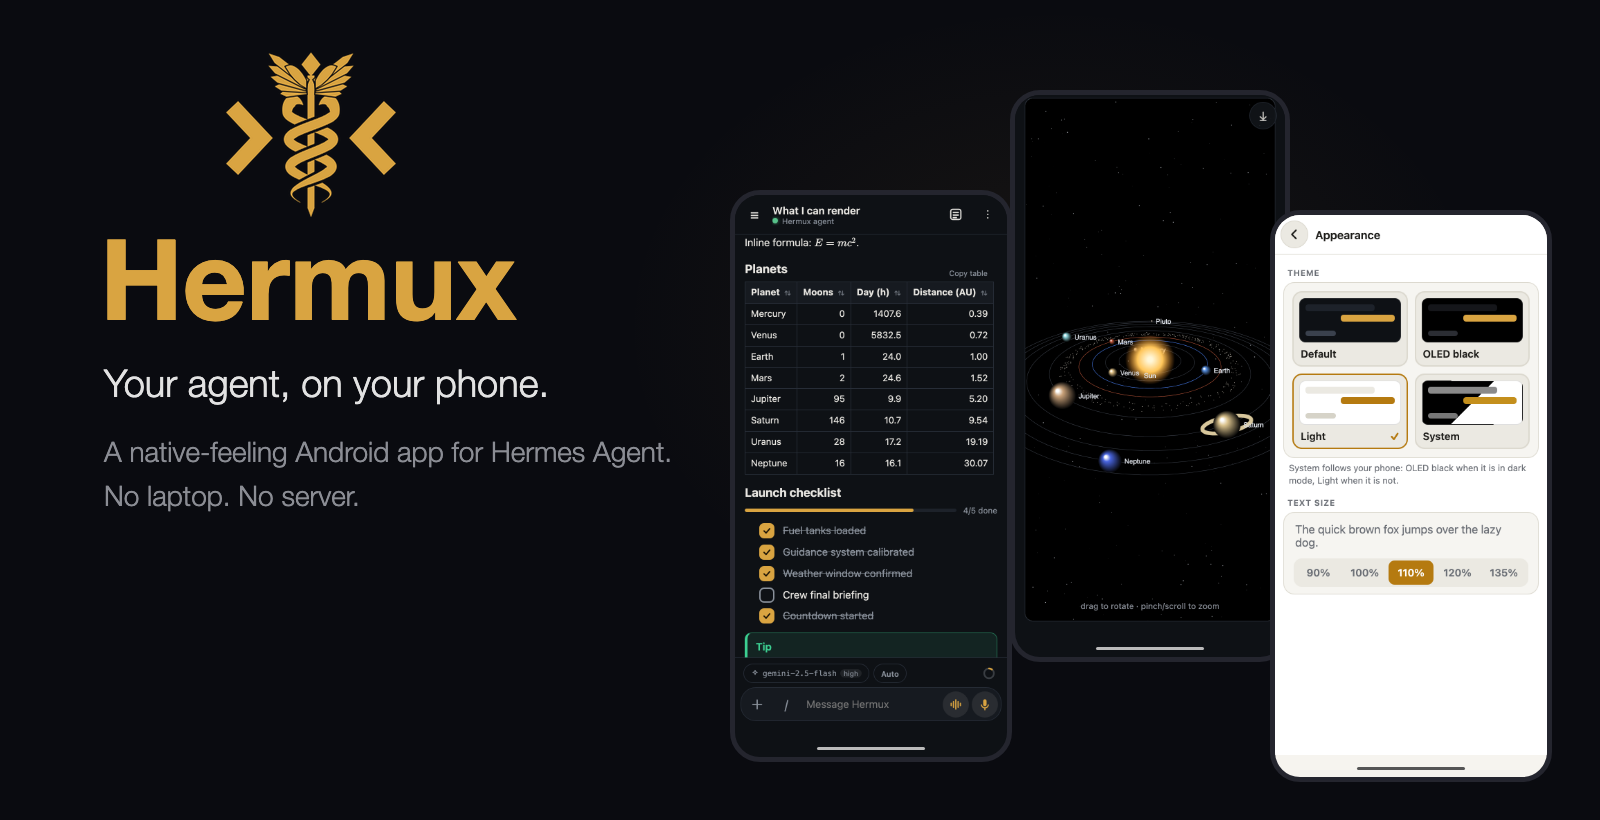
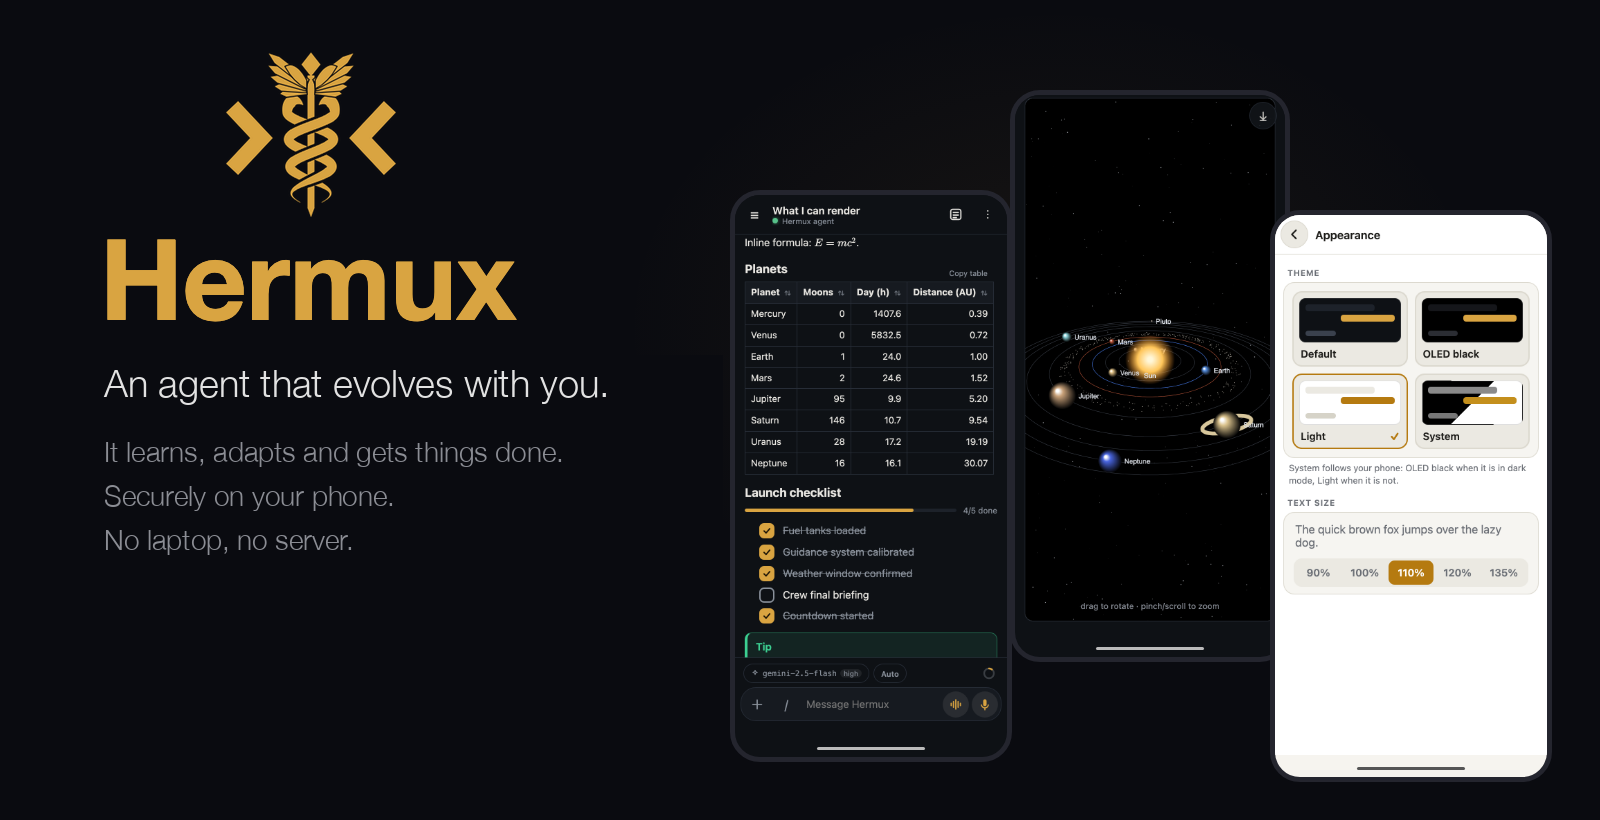
README top picture and tagline: an agent that evolves with you
- docs/img/hero.png: the lines under the name now read "An agent that evolves
  with you." and "It learns, adapts and gets things done. / Securely on your
  phone. / No laptop, no server.", in the same font, size and colours as before.
  The old "A native-feeling Android app for Hermes Agent." line is gone.
- README: the tagline under the picture and the picture's alt text say the same.

Changed region(s): [[0.0625, 0.5183, 0.4062, 0.6707], [0.0625, 0.4573, 0.375, 0.4878]]

diff --git a/README.md b/README.md
@@ -1,11 +1,11 @@
 <p align="center">
-  <img src="docs/img/hero.png" alt="Hermux: your agent, on your phone" width="100%">
+  <img src="docs/img/hero.png" alt="Hermux: an agent that evolves with you. It learns, adapts and gets things done, securely on your phone." width="100%">
 </p>
 
 <p align="center">
-  <b>A full AI agent that lives on your Android phone, and can use it.</b><br>
-  It chats, codes, builds things with you, runs your apps and answers from your lock screen.<br>
-  Everything runs on the phone. No laptop, no server, no root.
+  <b>An agent that evolves with you.</b><br>
+  It learns, adapts and gets things done: it chats, codes, builds with you and uses your apps.<br>
+  Securely on your phone. No laptop, no server, no root.
 </p>
 
 <p align="center">
